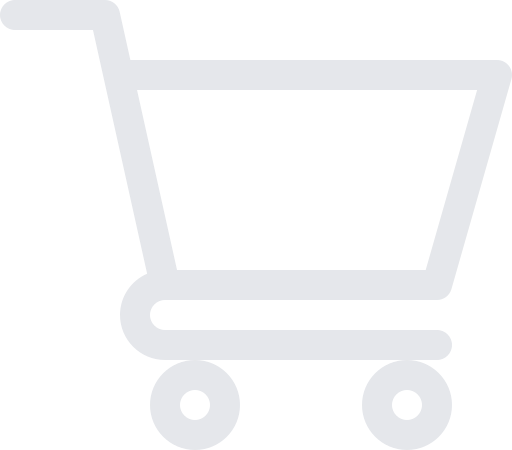
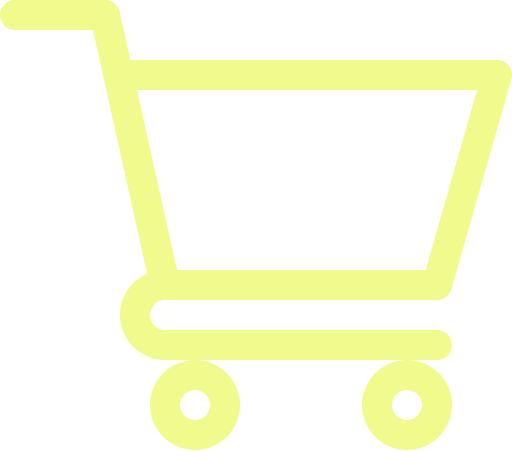
Minor changes

Changed region(s): [[0.0, 0.0, 1.0, 1.0]]

diff --git a/src/Apparel.jsx b/src/Apparel.jsx
@@ -21,7 +21,7 @@ function Apparel() {
                     className="product1Image" 
                 />
                 <p className="namePrice">
-                    <p>DOCU</p>
+                    <p className="bold">DOCU</p>
                     <p>₱450.00</p>
                 </p>
                 <div className="addBuy">
@@ -44,7 +44,7 @@ function Apparel() {
                     className="product2Image" 
                 />
                 <p className="product2NamePrice">
-                    <p>LOCKED IN</p>
+                    <p className="bold">LOCKED IN</p>
                     <p>₱400.00</p>
                 </p>
                 <div className="product2AddBuy">
@@ -67,7 +67,7 @@ function Apparel() {
                     className="product3Image" 
                 />
                 <p className="product3NamePrice">
-                    <p>GOLDEN RULE</p>
+                    <p className="bold">GOLDEN RULE</p>
                     <p>₱450.00</p>
                 </p>
                 <div className="product3AddBuy">
@@ -90,7 +90,7 @@ function Apparel() {
                     className="product4Image" 
                 />
                 <p className="namePrice">
-                    <p>CROPPED HOODIE</p>
+                    <p className="bold">CROPPED HOODIE</p>
                     <p>₱600.00</p>
                 </p>
                 <div className="addBuy">
@@ -113,7 +113,7 @@ function Apparel() {
                     className="product5Image" 
                 />
                 <p className="product5NamePrice">
-                    <p>REPO HOODIE</p>
+                    <p className="bold">REPO HOODIE</p>
                     <p>₱600.00</p>
                 </p>
                 <div className="product5AddBuy">

diff --git a/src/Navigation.jsx b/src/Navigation.jsx
@@ -4,7 +4,7 @@ import { useNavigate } from 'react-router-dom';
 import homePhoto from './assets/home.jpg';
 import logo from './assets/logo.png';
 import menu from './assets/menu.png';
-import cart from './assets/cart.png';
+import whiteCart from './assets/whiteCart.png';
 
 function Navigation() {
   const navigate = useNavigate();
@@ -25,7 +25,7 @@ function Navigation() {
                 </div>
                 <div className="navMenuContainer">
                     <img 
-                        src={cart}
+                        src={whiteCart}
                         alt="" 
                         className="cart" 
                     />

diff --git a/src/index.css b/src/index.css
@@ -140,7 +140,7 @@
 }
 
 .buy {
-  border-color: #E5E7EB;
+  border-color: #00FF9F;
   border-style: solid;
   border-width: 1px;
   background-color: transparent;
@@ -184,8 +184,8 @@
 .product3Image {
   display: grid;
   grid-area: 2 / 3 / 5 / 5;
-  width: 297px;
-  height: 583px;
+  width: 253px;
+  height: 499px;
 }
 
 .product3NamePrice {
@@ -268,6 +268,11 @@
 .blue {
   color: #61AFEF;
   font-size: 32px;
+}
+
+.bold {
+  font-weight: bold;
+  font-size: 18px;
 }
 
 .logo {
